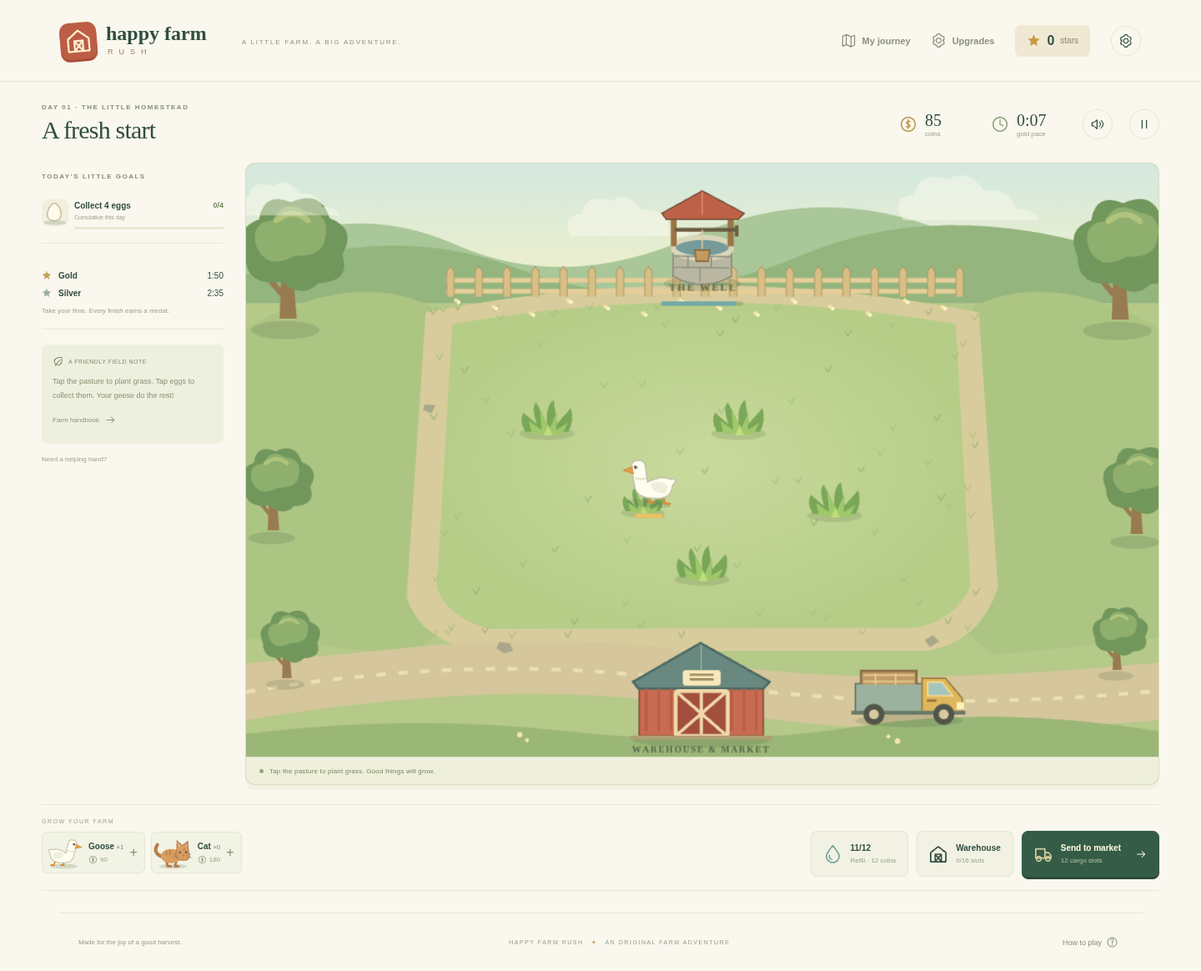
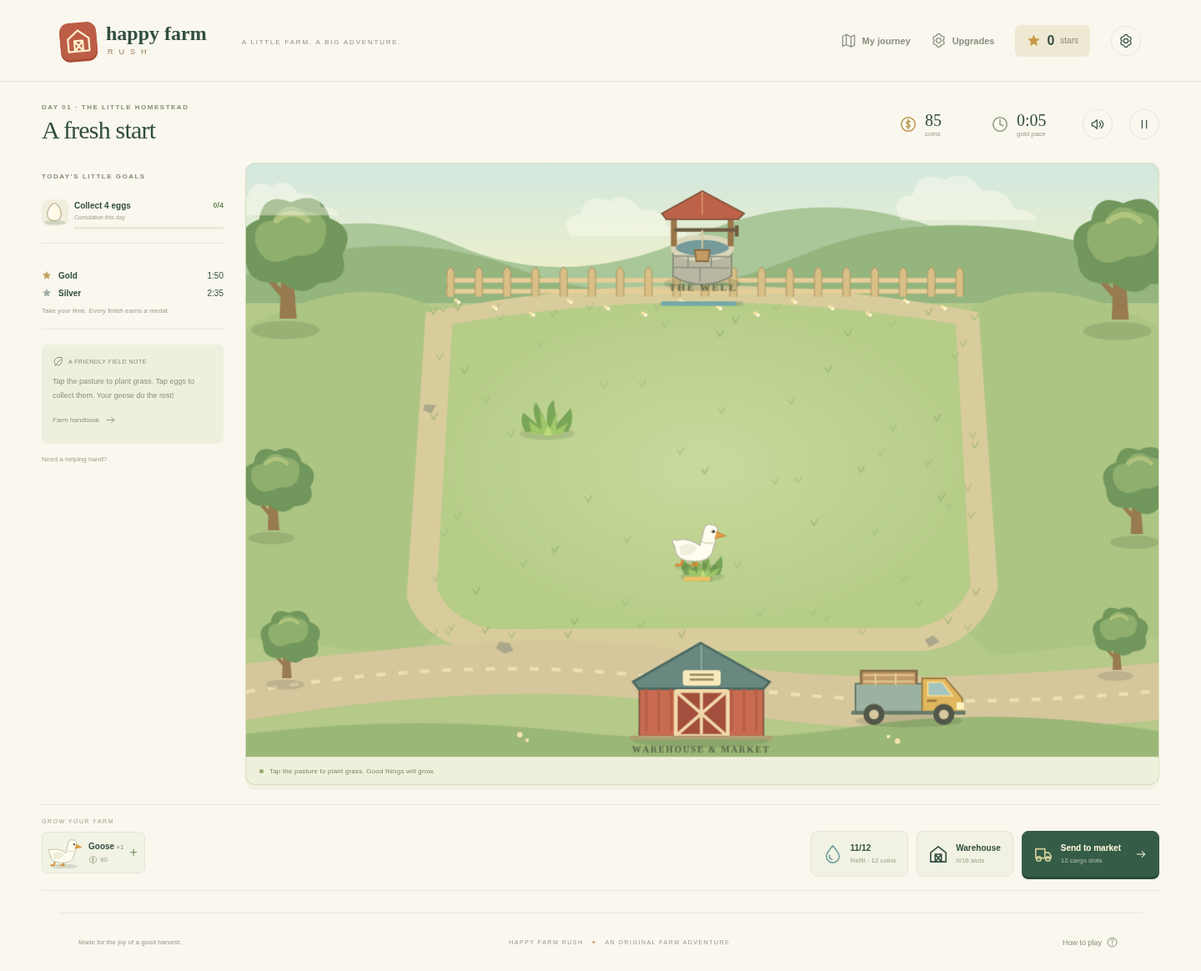
Verify campaign and mobile production flows; polish farm animations and balance

diff --git a/src/scenes/FarmScene.ts b/src/scenes/FarmScene.ts
@@ -7,12 +7,12 @@ import {BUILDINGS} from '../game/config/buildings';
 import type {GameEvent} from '../game/config/types';
 export interface FarmBridge {simulation:()=>GameSimulation|null;paused:()=>boolean;tick:()=>void;events:(events:GameEvent[])=>void;market:()=>void;well:()=>void;action:()=>void;reduced:()=>boolean;effects:()=>boolean}
 export class FarmScene extends Phaser.Scene {
- private bridge:FarmBridge;private clock=new GameClock();private entities=new Map<string,Phaser.GameObjects.Image>();private labels=new Map<string,Phaser.GameObjects.Text>();private bars!:Phaser.GameObjects.Graphics;private truck!:Phaser.GameObjects.Image;private clouds:Phaser.GameObjects.Image[]=[];private model:GameSimulation|null=null;private ready=false;
+ private bridge:FarmBridge;private clock=new GameClock();private entities=new Map<string,Phaser.GameObjects.Image>();private labels=new Map<string,Phaser.GameObjects.Text>();private bars!:Phaser.GameObjects.Graphics;private truck!:Phaser.GameObjects.Image;private well!:Phaser.GameObjects.Image;private clouds:Phaser.GameObjects.Image[]=[];private model:GameSimulation|null=null;private ready=false;
  constructor(bridge:FarmBridge){super('Farm');this.bridge=bridge;}
  create():void {
   this.add.image(500,325,'farm').setDepth(-1000);
   for(let i=0;i<3;i++)this.clouds.push(this.add.image(130+i*370,42+i%2*20,'cloud').setScale(.7+i*.13).setDepth(-900).setAlpha(.65));
-  this.add.image(500,85,'well').setScale(.82).setDepth(83).setInteractive({useHandCursor:true}).on('pointerdown',()=>{this.bridge.action();this.bridge.well();});
+  this.well=this.add.image(500,85,'well').setScale(.82).setDepth(83).setInteractive({useHandCursor:true}).on('pointerdown',()=>{this.bridge.action();this.bridge.well();});
   this.add.image(499,582,'warehouse').setScale(.85).setDepth(582).setInteractive({useHandCursor:true}).on('pointerdown',()=>{this.bridge.action();this.bridge.market();});
   this.truck=this.add.image(726,583,'truck').setDepth(585).setScale(.88).setInteractive({useHandCursor:true}).on('pointerdown',()=>{this.bridge.action();this.bridge.market();});
   this.add.text(500,136,'THE WELL',{fontFamily:'Georgia',fontSize:'11px',fontStyle:'bold',color:'#586447',letterSpacing:2}).setOrigin(.5).setDepth(100);
@@ -29,6 +29,7 @@ export class FarmScene extends Phaser.Scene {
  }
  feedback(e:GameEvent):void {
   if(!this.ready||e.x===undefined||e.y===undefined||!this.bridge.effects())return;
+  if(e.kind==='plant'&&!this.bridge.reduced()){for(let i=0;i<4;i++){const dust=this.add.circle(e.x+(i-1.5)*6,e.y+6,2+i%2,0xd8c28a,.75).setDepth(e.y+2);this.tweens.add({targets:dust,x:dust.x+(i-1.5)*10,y:e.y-8-i*3,alpha:0,scale:.3,duration:650,onComplete:()=>dust.destroy()});}}
   if(e.kind==='collect'&&e.asset&&!this.bridge.reduced()){
    const p=this.add.image(e.x,e.y,`product-${e.asset}`).setDepth(3000);this.tweens.add({targets:p,x:500,y:565,scale:.3,alpha:0,duration:520,ease:'Cubic.In',onComplete:()=>p.destroy()});
   }
@@ -42,20 +43,21 @@ export class FarmScene extends Phaser.Scene {
   if(sim.events.length)this.bridge.events(sim.events.splice(0));this.bridge.tick();
   const s=sim.s,t=s.time,motion=!this.bridge.reduced();
   if(!this.bridge.paused()&&motion)for(let i=0;i<this.clouds.length;i++)this.clouds[i].x=(130+i*370+t*(1+i*.4))%1180-90;
+  this.well.setAngle(motion&&s.refill>0?Math.sin(t*9)*2:0);
   this.bars.clear();const alive=new Set<string>();const visibleLabels=new Set<string>();
   const bar=(x:number,y:number,w:number,p:number,color:number)=>{this.bars.fillStyle(0x5c6c4d,.25).fillRoundedRect(x-w/2,y,w,5,2);this.bars.fillStyle(color).fillRoundedRect(x-w/2,y,w*Math.max(0,Math.min(1,p)),5,2);};
   for(const g of s.grass){const key=`g${g.id}`;alive.add(key);const sprite=this.image(key,'grass',g.x,g.y);sprite.setScale(Math.min(1,g.age*4)*(.6+g.food/E.grassFood*.4)).setDepth(g.y-40).setAlpha(.9);}
   for(const a of s.animals){const key=`a${a.id}`;alive.add(key);const moving=['wandering','seeking','fleeing'].includes(a.state);const f=motion&&moving?Math.floor(t*(a.state==='fleeing'?10:6)+a.id)%4:0;const sprite=this.image(key,`${a.species}-${f}`,a.x,a.y-16);const eating=a.state==='eating';sprite.setScale(a.species==='cow'?.85:a.species==='goose'?.69:.72).setFlipX(a.target.x<a.x).setDepth(a.y).setRotation(motion&&eating?Math.sin(t*8)*.1:0).setTint(a.hunger>E.hungerWarning?0xffe0b7:0xffffff);
    if(a.hunger>E.hungerWarning){const k=`h${a.id}`;visibleLabels.add(k);this.label(k,'! HUNGRY',a.x,a.y-62,'#a94b36',9);}if(a.species==='dog'&&a.bark>7.5){const k=`d${a.id}`;visibleLabels.add(k);this.label(k,'WOOF!',a.x,a.y-63,'#567f7a',10);}if(ANIMALS[a.species].product)bar(a.x,a.y+19,32,1-a.cooldown/ANIMALS[a.species].interval,0xe9c165);
   }
-  for(const p of s.drops){const key=`p${p.id}`;alive.add(key);const scale=p.age<.4&&motion?.75+Math.sin(p.age/.4*Math.PI)*.3:1;const sprite=this.image(key,`product-${p.kind}`,p.x,p.y);sprite.setScale(scale).setDepth(p.y+30).setAlpha(p.age>E.expiration-E.expirationWarning?.5+Math.sin(t*7)*.3:1);if(!sprite.input)sprite.setInteractive({useHandCursor:true}).on('pointerdown',()=>{this.bridge.action();if(!this.bridge.paused())sim.collect(p.id);});}
+  for(const p of s.drops){const key=`p${p.id}`;alive.add(key);const scale=p.age<.4&&motion?.75+Math.sin(p.age/.4*Math.PI)*.3:1;const sprite=this.image(key,`product-${p.kind}`,p.x,p.y);sprite.setScale(scale).setDepth(p.y+30).setAlpha(p.age>E.expiration-E.expirationWarning?.5+Math.sin(t*7)*.3:1);if(!sprite.input)sprite.setInteractive({useHandCursor:true,hitArea:new Phaser.Geom.Circle(23,23,this.game.device.input.touch?62:25),hitAreaCallback:Phaser.Geom.Circle.Contains}).on('pointerdown',()=>{this.bridge.action();if(!this.bridge.paused())sim.collect(p.id);});}
   for(const b of s.bears){const key=`b${b.id}`;alive.add(key);const sprite=this.image(key,`bear-${motion&&!b.caged&&b.warning<=0?Math.floor(t*5)%4:0}`,b.x,b.y-16);sprite.setScale(.92).setDepth(b.y).setTint(b.warning>0?0xefbb86:0xffffff);if(!sprite.input)sprite.setInteractive({useHandCursor:true}).on('pointerdown',()=>{this.bridge.action();if(!this.bridge.paused())sim.capture(b.id);});
    const k=`bt${b.id}`;visibleLabels.add(k);this.label(k,b.caged?`COLLECT · ${Math.ceil(b.cageTime)}s`:b.warning>0?`! BEAR · ${Math.ceil(b.warning)}s`:b.stun>0?'TAP TO CAPTURE!':'! TAP THE BEAR',b.x,b.y-67,'#a84d3c',10);
    if(b.caged){const ck=`c${b.id}`;alive.add(ck);this.image(ck,'cage',b.x,b.y-20).setScale(.95).setDepth(b.y+1);}
   }
   for(const m of s.machines){const b=BUILDINGS[m.kind],key=`m${m.kind}`;alive.add(key);const sprite=this.image(key,`building-${m.kind}-${m.level}`,b.x,b.y-25);sprite.setDepth(b.y).setScale(.94).setAngle(motion&&m.remaining>0?Math.sin(t*7)*.7:0);if(!sprite.input)sprite.setInteractive({useHandCursor:true}).on('pointerdown',()=>{this.bridge.action();if(!this.bridge.paused())sim.process(m.kind);});
    const k=`ml${m.kind}`;visibleLabels.add(k);this.label(k,m.remaining>0?`${Math.ceil(m.remaining)}s · ${m.batch} crafting`:b.short,b.x,b.y+45,'#4b5f49',10);
-   if(m.remaining>0){bar(b.x,b.y+65,85,1-m.remaining/m.duration,0xdea84d);if(motion&&this.bridge.effects()){const smokeKey=`sm${m.kind}`;visibleLabels.add(smokeKey);this.label(smokeKey,'· ·',b.x+30+Math.sin(t)*5,b.y-95-(t*9%20),'#a7aaa0',15);}}
+   if(m.remaining>0){const gx=b.x-47,gy=b.y+4;this.bars.fillStyle(0x728c7c).beginPath();for(let n=0;n<32;n++){const angle=(motion?t*2:0)+n*Math.PI/16,r=n%4<2?11:8;const x=gx+Math.cos(angle)*r,y=gy+Math.sin(angle)*r;if(n===0)this.bars.moveTo(x,y);else this.bars.lineTo(x,y);}this.bars.closePath().fillPath();this.bars.fillStyle(0xe8dab1).fillCircle(gx,gy,3);bar(b.x,b.y+65,85,1-m.remaining/m.duration,0xdea84d);if(motion&&this.bridge.effects()){const smokeKey=`sm${m.kind}`;visibleLabels.add(smokeKey);this.label(smokeKey,'· ·',b.x+30+Math.sin(t)*5,b.y-95-(t*9%20),'#a7aaa0',15);}}
   }
   for(const [key,obj] of this.entities)if(!alive.has(key)){obj.destroy();this.entities.delete(key);}
   for(const [key,label] of this.labels)if(!visibleLabels.has(key))label.setVisible(false);

diff --git a/src/ui/App.ts b/src/ui/App.ts
@@ -16,7 +16,7 @@ import {AudioSystem} from './Audio';
 export const formatTime=(t:number)=>`${Math.floor(t/60)}:${Math.floor(t%60).toString().padStart(2,'0')}`;
 const image=(art:string,cls='',alt='')=>`<img class="${cls}" src="${dataUri(art)}" alt="${alt}">`;
 const medals=['','Bronze','Silver','Gold'];
-const titleFor=(o:Objective)=>{const n=o.key==='coins'?'coins':o.key in PRODUCTS?PRODUCTS[o.key as Product].name.toLowerCase():ANIMALS[o.key as Species].name.toLowerCase();return `${({collect:'Collect',produce:'Make',deliver:'Deliver',stock:'Store',own:'Own',balance:'Have',revenue:'Earn'})[o.type]} ${o.amount} ${n}${o.amount>1&&o.key!=='coins'&&!['milk','wool','cloth','thread','powder','butter','cheese'].includes(o.key)?'s':''}`;};
+const titleFor=(o:Objective)=>{if(o.type==='own'){const species=o.key as Species;const plurals:Record<Species,string>={goose:'geese',sheep:'sheep',cow:'cows',cat:'cats',dog:'dogs'};return `Own ${o.amount} ${o.amount===1?ANIMALS[species].name.toLowerCase():plurals[species]}`;}const n=o.key==='coins'?'coins':o.key in PRODUCTS?PRODUCTS[o.key as Product].name.toLowerCase():ANIMALS[o.key as Species].name.toLowerCase();return `${({collect:'Collect',produce:'Make',deliver:'Deliver',stock:'Store',own:'Own',balance:'Have',revenue:'Earn'})[o.type]} ${o.amount} ${n}${o.amount>1&&o.key!=='coins'&&!['milk','wool','cloth','thread','powder','butter','cheese'].includes(o.key)?'s':''}`;};
 export class App {
  readonly saves=new SaveManager();sim:GameSimulation|null=null;private game:Phaser.Game|null=null;private scene:FarmScene|null=null;private view:'map'|'shop'|'farm'='map';private modal='';private autoPaused=false;private lastUi=0;private lastSave=0;private selection:Inventory=emptyInventory();private toastTimer=0;private audio=new AudioSystem(()=>this.saves.progress.settings);private notice='';
  constructor(private root:HTMLElement){
@@ -29,11 +29,11 @@ export class App {
   this.render();if(this.saves.error)this.toast(this.saves.error,true);
  }
  private isPaused=()=>this.view!=='farm'||!!this.modal||this.autoPaused||document.hidden;
- private header():string {const p=this.saves.progress;return `<header class="masthead"><button class="brand" data-action="map" aria-label="Happy Farm Rush home"><span class="brand-mark">${icon('barn')}</span><span>happy farm<span class="brand-rush">RUSH</span></span></button><div class="header-note">A LITTLE FARM. A BIG ADVENTURE.</div><nav><button class="nav-btn ${this.view==='map'?'active':''}" data-action="map">${icon('map')}<span>My journey</span></button><button class="nav-btn ${this.view==='shop'?'active':''}" data-action="shop">${icon('gear')}<span>Upgrades</span></button><span class="stars-badge">${starSvg}<b>${p.stars}</b><span>stars</span></span><button class="icon-btn" data-action="settings" aria-label="Settings">${icon('gear')}</button></nav></header>`;}
+ private header():string {const p=this.saves.progress;return `<header class="masthead"><button class="brand" data-action="map" aria-label="Happy Farm Rush home"><span class="brand-mark">${icon('barn')}</span><span>happy farm<span class="brand-rush">RUSH</span></span></button><div class="header-note">A LITTLE FARM. A BIG ADVENTURE.</div><nav><button class="nav-btn ${this.view==='map'?'active':''}" data-action="map" aria-label="My journey">${icon('map')}<span>My journey</span></button><button class="nav-btn ${this.view==='shop'?'active':''}" data-action="shop" aria-label="Upgrades">${icon('gear')}<span>Upgrades</span></button><span class="stars-badge">${starSvg}<b>${p.stars}</b><span>stars</span></span><button class="icon-btn" data-action="settings" aria-label="Settings">${icon('gear')}</button></nav></header>`;}
  private render():void {
   if(this.view!=='farm'){this.game?.destroy(true);this.game=null;this.scene=null;}
   this.root.innerHTML=`${this.header()}<main id="view">${this.view==='map'?this.mapView():this.view==='shop'?this.shopView():this.farmView()}</main><div id="overlay"></div><div id="toast" role="status" aria-live="polite"></div><footer class="footer"><span>Made for the joy of a good harvest.</span><span>HAPPY FARM RUSH <i>✦</i> AN ORIGINAL FARM ADVENTURE</span><button data-action="help">How to play ${icon('help')}</button></footer>`;
-  if(this.view==='farm')this.bootFarm();
+  window.scrollTo(0,0);if(this.view==='farm')this.bootFarm();
  }
  private mapView():string {
   const p=this.saves.progress,done=Object.keys(p.best).length;return `<section class="welcome"><div class="welcome-copy"><div class="eyebrow"><span></span> YOUR OWN LITTLE CORNER OF THE WORLD</div><h1>Good days.<br>Great <em>harvests.</em></h1><p>Plant a little. Care a lot. Turn a humble homestead<br class="desktop-break"> into the happiest farm in the valley.</p><div class="hero-actions"><button class="primary" data-action="${p.active?'continue':'level'}" data-key="${Math.min(p.unlocked,20)}">${p.active?'Continue your day':done?'Back to the farm':'Let’s get growing'} ${icon('arrow')}</button><button class="text-btn" data-action="help">New around here? How to play</button></div><div class="welcome-meta"><span>${icon('leaf')} 20 handcrafted days</span><span>${icon('clock')} Play at your own pace</span></div></div><div class="hero-art">${image(farmArt(),'hero-landscape')}${image(buildingArt('powder'),'hero-mill')}${image(warehouseArt,'hero-barn')}${image(animalArt('goose'),'hero-goose')}${image(animalArt('sheep'),'hero-sheep')}<div class="hero-bubble">A fresh start<br><b>is always growing.</b><span class="little-leaf">${icon('leaf')}</span></div><span class="art-caption">EST. TODAY · GROWN WITH LOVE</span></div></section><section class="journey"><div class="section-heading"><div><div class="eyebrow">ONE LITTLE DAY AT A TIME</div><h2>Your farm story</h2></div><div class="progress-summary"><b>${done}<span> / 20</span></b> days well spent<div class="thin-track"><span style="width:${done*5}%"></span></div></div></div>${[0,1,2].map(ch=>`<div class="chapter"><div class="chapter-title"><span>${['THE LITTLE HOMESTEAD','THREADS OF THE VALLEY','A BOUNTIFUL LIFE'][ch]}</span><i></i><small>CHAPTER 0${ch+1}</small></div><div class="level-grid">${LEVELS.filter(l=>ch===0?l.id<=6:ch===1?l.id>6&&l.id<=12:l.id>12).map(l=>{const locked=l.id>p.unlocked,best=p.best[l.id];return `<button class="level-card ${locked?'locked':''} ${l.id===p.unlocked?'current':''} ${best?'completed':''}" data-action="level" data-key="${l.id}" ${locked?'disabled':''}><span class="level-number">${locked?icon('lock'):String(l.id).padStart(2,'0')}</span><span class="level-name">${l.name}</span><span class="level-medal">${best?`<span class="mini-stars rank-${best.medal}">${starSvg.repeat(best.medal)}</span><small>${formatTime(best.time)}</small>`:locked?'<small>A little further along</small>':`<small>${l.id===1?'Your story starts here':'Ready when you are'}</small>${icon('arrow')}`}</span></button>`;}).join('')}</div></div>`).join('')}</section>`;

diff --git a/tests/browser/campaign.spec.ts b/tests/browser/campaign.spec.ts
@@ -1,7 +1,7 @@
 import {test,expect,type Page} from '@playwright/test';
 import type {FarmState} from '../../src/game/config/types';
 const state=(page:Page)=>page.evaluate(()=>JSON.parse(localStorage.getItem('happy-farm-rush-v1')!).active as FarmState|null);
-async function worldClick(page:Page,x:number,y:number){const box=await page.locator('canvas').boundingBox();if(!box)throw new Error('Farm canvas is unavailable');await page.mouse.click(box.x+x/1000*box.width,box.y+y/650*box.height);}
+async function worldClick(page:Page,x:number,y:number){await page.locator('canvas').scrollIntoViewIfNeeded();const box=await page.locator('canvas').boundingBox();if(!box)throw new Error('Farm canvas is unavailable');await page.mouse.click(box.x+x/1000*box.width,box.y+y/650*box.height);}
 async function startDay(page:Page){await page.getByRole('button',{name:'Let’s get growing',exact:false}).first().click();await expect(page.getByRole('dialog')).toBeVisible();await page.getByRole('button',{name:'Let’s get growing',exact:false}).click();await expect(page.locator('canvas[data-ready="true"]')).toBeVisible();}
 test('new campaign, real harvest, medal, upgrades, next day and save restore',async({page},testInfo)=>{
  const errors:string[]=[];page.on('pageerror',e=>errors.push(e.message));await page.clock.install();await page.goto('/?renderer=canvas');await page.screenshot({path:`screenshots/map-${testInfo.project.name}.png`,fullPage:true});
@@ -15,8 +15,9 @@ test('new campaign, real harvest, medal, upgrades, next day and save restore',as
  await page.screenshot({path:`screenshots/result-${testInfo.project.name}.png`,fullPage:true});
  await page.getByRole('button',{name:'Return to the journey',exact:true}).click();await page.getByRole('button',{name:'Upgrades',exact:false}).click();await expect(page.getByText('Room to grow.',{exact:false})).toBeVisible();await page.screenshot({path:`screenshots/shop-${testInfo.project.name}.png`,fullPage:true});
  await page.getByRole('button',{name:'Level 1 2',exact:true}).first().click();
- await page.getByRole('button',{name:'Back to your journey',exact:false}).click();await page.locator('[data-action="level"][data-key="2"]').click();await page.getByRole('button',{name:'Let’s get growing',exact:false}).click();await expect(page.locator('canvas[data-ready="true"]')).toBeVisible();await page.clock.runFor(7000);await worldClick(page,520,440);await page.getByRole('button',{name:'Pause game',exact:true}).click();const saved=await state(page);expect(saved?.level).toBe(2);expect(saved?.time).toBeGreaterThan(5);
- await page.clock.runFor(60000);expect((await state(page))!.time).toBe(saved!.time);await page.reload();await page.getByRole('button',{name:'Continue your day',exact:false}).click();await page.getByRole('button',{name:'Resume your day',exact:false}).click();await expect(page.locator('canvas[data-ready="true"]')).toBeVisible();const restored=await state(page);expect(restored?.water).toBe(saved?.water);expect(restored?.time).toBe(saved?.time);
+ await page.getByRole('button',{name:'Back to your journey',exact:false}).click();await page.locator('.level-card[data-action="level"][data-key="2"]').click();await page.getByRole('button',{name:'Let’s get growing',exact:false}).click();await expect(page.locator('canvas[data-ready="true"]')).toBeVisible();await page.clock.runFor(7000);await worldClick(page,520,440);await page.getByRole('button',{name:'Pause game',exact:true}).click();const saved=await state(page);expect(saved?.level).toBe(2);expect(saved?.time).toBeGreaterThan(5);
+ await page.clock.fastForward(60000);expect((await state(page))!.time).toBe(saved!.time);await page.reload();await page.getByRole('button',{name:'Continue your day',exact:false}).click();await page.getByRole('button',{name:'Resume your day',exact:false}).click();await expect(page.locator('canvas[data-ready="true"]')).toBeVisible();const restored=await state(page);expect(restored?.water).toBe(saved?.water);expect(restored?.time).toBe(saved?.time);
  const campaign=await page.evaluate(()=>JSON.parse(localStorage.getItem('happy-farm-rush-v1')!));expect(campaign.best['1']).toBeTruthy();expect(campaign.upgrades.well).toBe(1);expect(campaign.stars+campaign.spent).toBe(campaign.totalEarned);expect(errors).toEqual([]);
+ await page.evaluate(()=>{Object.defineProperty(document,'hidden',{configurable:true,get:()=>true});document.dispatchEvent(new Event('visibilitychange'));});const hiddenTime=(await state(page))!.time;await page.clock.fastForward(60000);expect((await state(page))!.time).toBe(hiddenTime);await page.evaluate(()=>{Object.defineProperty(document,'hidden',{configurable:true,get:()=>false});document.dispatchEvent(new Event('visibilitychange'));});await expect(page.getByText('The farm can wait.',{exact:true})).toBeVisible();
  const overflow=await page.evaluate(()=>document.documentElement.scrollWidth>innerWidth+1);expect(overflow).toBe(false);
 });

diff --git a/tests/browser/production.spec.ts b/tests/browser/production.spec.ts
@@ -1,0 +1,23 @@
+import {test,expect,type Page} from '@playwright/test';
+import {GameSimulation} from '../../src/game/engine/GameSimulation';
+import {newProgress} from '../../src/game/persistence/SaveManager';
+import {LEVELS} from '../../src/game/config/levels';
+import type {FarmState} from '../../src/game/config/types';
+const state=(p:Page)=>p.evaluate(()=>JSON.parse(localStorage.getItem('happy-farm-rush-v1')!).active as FarmState);
+async function click(p:Page,x:number,y:number){await p.locator('canvas').scrollIntoViewIfNeeded();const b=await p.locator('canvas').boundingBox();if(!b)throw new Error('Missing canvas');await p.mouse.click(b.x+x/1000*b.width,b.y+y/650*b.height);}
+async function save(p:Page){await p.getByRole('button',{name:'Pause game',exact:true}).click();const s=await state(p);await p.getByRole('button',{name:'Resume day',exact:false}).click();return s;}
+test('three workshop chains, cage collection, selected cargo and exactly-once payment',async({page},info)=>{
+ const errors:string[]=[];page.on('pageerror',e=>errors.push(e.message));
+ // Arrange a valid interrupted final day; isolate production without skipping its timers or actions.
+ const fixture=newProgress();fixture.unlocked=20;const farm=new GameSimulation(LEVELS[19]);farm.s.animals=[];farm.s.inventory.egg=1;farm.s.inventory.wool=1;farm.s.inventory.milk=1;fixture.active=farm.s;
+ await page.addInitScript(value=>localStorage.setItem('happy-farm-rush-v1',value),JSON.stringify(fixture));await page.clock.install();await page.goto('/?renderer=canvas');await page.getByRole('button',{name:'Continue your day',exact:false}).click();await page.getByRole('button',{name:'Resume your day',exact:false}).click();await expect(page.locator('canvas[data-ready="true"]')).toBeVisible();
+ await click(page,132,190);await click(page,125,325);await click(page,135,455);await page.clock.runFor(24000);
+ let s=await save(page);expect(s.inventory.egg).toBe(0);expect(s.inventory.wool).toBe(0);expect(s.inventory.milk).toBe(0);expect(s.produced.powder).toBe(1);expect(s.produced.thread).toBe(1);expect(s.produced.butter).toBe(1);
+ for(const d of s.drops)await click(page,d.x,d.y);
+ await click(page,866,190);await click(page,875,325);await click(page,865,455);await page.clock.runFor(30000);
+ s=await save(page);expect(s.produced.cake).toBe(1);expect(s.produced.cloth).toBe(1);expect(s.produced.cheese).toBe(1);for(const d of s.drops)await click(page,d.x,d.y);
+ await page.clock.runFor(6000);s=await save(page);expect(s.bears.length).toBeGreaterThan(0);const bear=s.bears[0];for(let i=0;i<4;i++)await click(page,bear.x,bear.y-16);
+ s=await save(page);expect(s.inventory.bear).toBe(1);expect(s.collected.bear).toBe(1);expect(s.inventory.cake).toBe(1);expect(s.inventory.cloth).toBe(1);expect(s.inventory.cheese).toBe(1);
+ await page.screenshot({path:`screenshots/production-${info.project.name}.png`,fullPage:true});await page.getByRole('button',{name:'Warehouse',exact:false}).click();await page.getByRole('button',{name:'Load cake',exact:true}).click();await page.getByRole('button',{name:'Load cloth',exact:true}).click();await page.getByRole('button',{name:'Load cheese',exact:true}).click();await page.screenshot({path:`screenshots/market-${info.project.name}.png`,fullPage:true});const coins=s.coins;
+ await page.getByRole('button',{name:'Send delivery',exact:false}).click();s=await state(page);expect(s.inventory.cake).toBe(0);expect(s.coins).toBe(coins);expect(s.truck.remaining).toBeGreaterThan(0);await page.clock.runFor(16000);s=await save(page);expect(s.coins).toBe(coins+553);expect(s.revenue).toBe(553);expect(s.delivered.cheese).toBe(1);expect(s.truck.remaining).toBe(0);await page.clock.runFor(16000);s=await save(page);expect(s.coins).toBe(coins+553);expect(errors).toEqual([]);
+});

diff --git a/src/game/config/levels.ts b/src/game/config/levels.ts
@@ -23,9 +23,9 @@ const levels: Array<Partial<Level>&{name:string;objectives:Objective[]}> = [
  {name:'Every shelf counts',description:'A small barn calls for a clever plan.',tip:'Storage is tighter today. Ship partial loads and process raw goods to free space.',coins:230,animals:{goose:3,sheep:2,cow:2,cat:1},buildings:wool,capacity:14,objectives:[deliver('milk',5),produce('cloth',2),money(450)],gold:200,silver:285,bears:[80,160,230]},
  {name:'Golden goodness',description:'Fresh milk becomes the village’s favorite butter.',coins:220,animals:{goose:2,cow:1,cat:1},buildings:[...egg,'churn'],objectives:[produce('butter',3),deliver('butter',3)],gold:165,silver:245,bears:[75,150]},
  {name:'Say cheese',description:'Patience makes the sweetest rewards.',coins:260,animals:{goose:2,cow:3,dog:1},buildings:[...egg,'churn','cheese'],objectives:[produce('cheese',2),deliver('cheese',2)],gold:180,silver:260,bears:[80,160,235]},
- {name:'Three little workshops',description:'Eggs, wool, and milk. One beautiful rhythm.',coins:320,animals:{goose:3,sheep:3,cow:2,cat:1,dog:1},buildings:all,objectives:[produce('cake',5),produce('cloth',5),produce('cheese',5)],gold:230,silver:315,bears:[65,135,205,275]},
+ {name:'Three little workshops',description:'Eggs, wool, and milk. One beautiful rhythm.',coins:320,animals:{goose:3,sheep:3,cow:2,cat:1,dog:1},buildings:all,objectives:[produce('cake',6),produce('cloth',6),produce('cheese',6)],gold:230,silver:315,bears:[65,135,205,275]},
  {name:'The village order',description:'A special delivery for everyone you know.',coins:300,animals:{goose:3,sheep:3,cow:3,cat:1,dog:1},buildings:all,objectives:[deliver('cake',6),deliver('cloth',5),deliver('cheese',5)],gold:260,silver:350,bears:[60,120,185,250,315]},
  {name:'Perfect timing',description:'Make every drop and delivery count.',coins:250,animals:{goose:3,sheep:3,cow:3,cat:1,dog:1},buildings:all,capacity:18,objectives:[revenue(3600),produce('cheese',5),produce('cloth',5),{type:'stock',key:'cake',amount:3}],gold:285,silver:380,bears:[65,125,185,245,305]},
  {name:'Home sweet harvest',description:'Everything you have learned. Everything you have grown.',coins:360,animals:{goose:4,sheep:3,cow:3,cat:1,dog:1},buildings:all,objectives:[deliver('cake',8),deliver('cloth',7),deliver('cheese',7),revenue(5000),collect('bear',3)],gold:325,silver:430,bears:[55,110,165,220,275,330,385]}
 ];
-export const LEVELS:Level[]=levels.map((l,i)=>({id:i+1,description:'A new day on your little farm.',chapter:i<6?'01 · THE LITTLE HOMESTEAD':i<12?'02 · THREADS OF THE VALLEY':'03 · A BOUNTIFUL LIFE',tip:'Keep grass growing, collect your harvest, and keep the truck busy. Tap a workshop to process its input.',coins:150,animals:{goose:2},water:12,buildings:[],unlocked:i<6?['goose','cat']:i<12?['goose','sheep','cat','dog']:['goose','sheep','cow','cat','dog'],bears:[],gold:140,silver:210,bronze:99999,reward:3,inventory:{},activeUpgrades:{},...l}));
+export const LEVELS:Level[]=levels.map((l,i)=>({id:i+1,description:'A new day on your little farm.',chapter:i<6?'01 · THE LITTLE HOMESTEAD':i<12?'02 · THREADS OF THE VALLEY':'03 · A BOUNTIFUL LIFE',tip:'Keep grass growing, collect your harvest, and keep the truck busy. Tap a workshop to process its input.',coins:150,animals:{goose:2},water:12,buildings:[],unlocked:i<5?['goose']:i<6?['goose','cat']:i<11?['goose','sheep','cat']:i<12?['goose','sheep','cat','dog']:['goose','sheep','cow','cat','dog'],bears:[],gold:140,silver:210,bronze:99999,reward:3,inventory:{},activeUpgrades:{},...l}));

diff --git a/scripts/balance.ts b/scripts/balance.ts
@@ -1,6 +1,7 @@
 import {writeFileSync} from 'node:fs';
 import {GameSimulation} from '../src/game/engine/GameSimulation';
 import {LEVELS} from '../src/game/config/levels';
+import {updateBears} from '../src/game/engine/BearSystem';
 import {ANIMALS} from '../src/game/config/animals';
 import {BUILDINGS} from '../src/game/config/buildings';
 import {PRODUCTS} from '../src/game/config/products';
@@ -14,7 +15,7 @@ export function simulate(levelIndex:number,profile:Profile){
  const interval=profile==='beginner'?4:profile==='efficient'?.4:profile==='storage-shortage'?2:1.3;
  for(let step=0;step<18000&&!g.s.complete;step++){
   const s=g.s;if(s.time+1e-8>=nextAction){nextAction+=interval;
-   if(profile==='bear-loss'&&s.bears.length&&!removed){const a=s.animals.find(a=>ANIMALS[a.species].product);if(a){const b=s.bears.find(b=>!b.caged);if(b){b.x=a.x;b.y=a.y;b.warning=0;b.stun=0;b.attack=0;const dog=s.animals.find(v=>v.species==='dog');if(dog)dog.bark=10;g.step();removed=s.lost>0;}}}
+   if(profile==='bear-loss'&&s.bears.length&&!removed){const a=s.animals.find(a=>ANIMALS[a.species].product);if(a){const b=s.bears.find(b=>!b.caged);if(b){b.x=a.x;b.y=a.y;b.warning=0;b.stun=0;b.attack=0;const dog=s.animals.find(v=>v.species==='dog');if(dog)dog.bark=10;updateBears(s,.05,g.emit);removed=s.lost>0;}}}
    for(const b of [...s.bears]){if(!b.caged){for(let i=0;i<3;i++)g.capture(b.id);}if(b.caged)g.capture(b.id);}
    for(const p of [...s.drops].sort((a,b)=>PRODUCTS[b.kind].price-PRODUCTS[a.kind].price))if(!g.collect(p.id))refused++;
    // Work backward through each chain, retaining raw resources until downstream goals are met.

diff --git a/playwright.config.ts b/playwright.config.ts
@@ -1,2 +1,2 @@
 import {defineConfig} from '@playwright/test';
-export default defineConfig({testDir:'tests/browser',timeout:180000,fullyParallel:false,workers:1,reporter:'list',use:{baseURL:'http://127.0.0.1:5173',launchOptions:{executablePath:process.env.CHROMIUM_PATH||'/usr/bin/chromium',args:['--no-sandbox','--use-gl=angle','--use-angle=swiftshader','--enable-unsafe-swiftshader']},screenshot:'only-on-failure'},projects:[{name:'desktop',use:{viewport:{width:1440,height:1000}}},{name:'mobile-landscape',use:{viewport:{width:844,height:390},isMobile:true,hasTouch:true}},{name:'mobile-portrait',use:{viewport:{width:390,height:844},isMobile:true,hasTouch:true}}]});
+export default defineConfig({testDir:'tests/browser',timeout:180000,fullyParallel:false,workers:1,reporter:'list',use:{baseURL:process.env.PLAYWRIGHT_BASE_URL||'http://127.0.0.1:5173',launchOptions:{executablePath:process.env.CHROMIUM_PATH||'/usr/bin/chromium',args:['--no-sandbox','--disable-gpu']},screenshot:'only-on-failure'},projects:[{name:'desktop',use:{viewport:{width:1440,height:1000}}},{name:'mobile-landscape',use:{viewport:{width:844,height:390},isMobile:true,hasTouch:true}},{name:'mobile-portrait',use:{viewport:{width:390,height:844},isMobile:true,hasTouch:true}}]});

diff --git a/src/game/engine/GameSimulation.ts b/src/game/engine/GameSimulation.ts
@@ -13,7 +13,7 @@ export class GameSimulation {
   if(saved){this.s=structuredClone(saved);return;}
   this.s={level:level.id,seed:8137+level.id*93,nextId:1,time:0,coins:level.coins,water:level.water,refill:0,animals:[],grass:[],drops:[],bears:[],machines:level.buildings.map(kind=>({kind,level:1,remaining:0,duration:0,batch:0})),inventory:{...emptyInventory(),...level.inventory},collected:emptyInventory(),produced:emptyInventory(),delivered:emptyInventory(),revenue:0,truck:{remaining:0,duration:0,cargo:emptyInventory(),value:0},spawned:0,complete:false,lost:0,upgrades:{...upgrades,...level.activeUpgrades}};
   for(const [species,count] of Object.entries(level.animals))for(let i=0;i<(count??0);i++)this.addAnimal(species as Species);
-  for(let i=0;i<4;i++)this.s.grass.push({id:this.id(),x:330+i*105,y:280+(i%2)*90,food:E.grassFood,age:3});
+  for(let i=0;i<(level.id===1?1:4);i++)this.s.grass.push({id:this.id(),x:330+i*105,y:280+(i%2)*90,food:E.grassFood,age:3});
  }
  static restore(state:FarmState):GameSimulation{return new GameSimulation(LEVELS[state.level-1],state.upgrades,state);}
  id=():number=>this.s.nextId++;

diff --git a/src/game/engine/AnimalAI.ts b/src/game/engine/AnimalAI.ts
@@ -36,6 +36,7 @@ export function updateAnimals(c:AIContext,dt:number):void {
  s.grass=s.grass.filter(g=>g.food>0.01);
 }
 function wander(c:AIContext,a:Animal,dt:number):void {
- a.state='wandering';if(distance(a,a.target)<8){a.target={x:E.field.left+25+c.random()*(E.field.right-E.field.left-50),y:E.field.top+20+c.random()*(E.field.bottom-E.field.top-40)};a.state='idle';}
+ if(a.warning>0){a.warning=Math.max(0,a.warning-dt);a.state='idle';return;}
+ a.state='wandering';if(distance(a,a.target)<8){a.target={x:E.field.left+25+c.random()*(E.field.right-E.field.left-50),y:E.field.top+20+c.random()*(E.field.bottom-E.field.top-40)};a.state='idle';a.warning=.6+c.random()*1.2;return;}
  move(a,a.target,ANIMALS[a.species].speed*0.65,dt);
 }

diff --git a/tests/campaign.test.ts b/tests/campaign.test.ts
@@ -1,0 +1,7 @@
+import {describe,it,expect} from 'vitest';
+import {profiles,simulate} from '../scripts/balance';
+import {LEVELS} from '../src/game/config/levels';
+describe('campaign economic playthroughs, with no persistent upgrades',()=>{
+ for(const profile of profiles)for(const level of LEVELS)it(`${profile}: day ${level.id} is solvable`,()=>{const result=simulate(level.id-1,profile);expect(result.complete,result.goals).toBe(true);expect(result.time).toBeLessThan(900);});
+ it('adverse bear scenario actually exercises a lost animal',()=>{const result=simulate(19,'bear-loss');expect(result.lost).toBeGreaterThan(0);expect(result.complete).toBe(true);});
+});

diff --git a/TESTING.md b/TESTING.md
@@ -1,13 +1,39 @@
 # Verification
 
-Development verification is recorded here with its actual scope. Automated logic tests do not establish device performance or subjective game feel.
+Verified on 2026-11-08 in the development environment. Automated tests establish the behavior described below, not subjective polish or unmeasured physical-device performance.
 
-- `npm test`: 34 deterministic simulation/persistence tests passed during initial implementation.
-- `npm run build`: strict TypeScript validation and Vite production build passed.
-- Chromium smoke checks: farm renders, SVG textures load, timer advances, and no browser runtime errors were reported in both automatic WebGL and explicit Canvas runs.
-- `npm run balance`: all 100 level/profile simulations completed with no purchased persistent upgrades after balancing changes. Detailed metrics are in `balance-results.json`.
-- Playwright desktop and mobile campaign checks: in progress at the first playable release; final results will be added after they run.
+## Engine and campaign
 
-## Scope and remaining limitations
+`npm test`: **135 passed**, two test files.
 
-Headless browser coverage is not a substitute for testing on physical Android devices. Art uses original vector walk frames and state transforms rather than large hand-painted sprite sheets. Ambient audio is a synthesized tone, not a composed musical soundtrack. Star upgrades deliberately let an experienced replay become faster than the initial campaign target. Balancing policies have perfect awareness of stock and goals even when their reactions are delayed, so the 45–60 minute target needs human playtesting.
+- 34 tests cover deterministic action streams, grass consumption and hunger, production cooldowns, planting/refills, successful and blocked collection, cats, expiration, every workshop conversion and timer, local upgrades, truck capacity and invalid cargo, exactly-once delivery credit, bear warnings/attacks/capture/escape, dog stun, goal semantics, completion freeze, medal boundaries, persistent upgrades, rescue, fixed-step timing, pause/catch-up limits, full save restoration and validation, reward deduplication and upgrade purchases.
+- 101 tests run all twenty days under five deterministic player policies, with no permanent upgrades, and confirm the adverse bear scenario actually loses an animal and still finishes. The final campaign/profile matrix completed **100/100** scenarios within the 900-second per-day ceiling. Measured simulation campaigns span **45.15–47.62 minutes**. See `balance-results.json` and `BALANCE.md` for policy assumptions.
+
+`npm run build`: **passed** strict TypeScript checking and Vite's static production build. Phaser is pinned to **4.2.1**. Output is approximately 1.46 MB JavaScript (398 KB gzip), 30 KB CSS (7 KB gzip), and a small HTML entry point; SVG assets are embedded and require no runtime service.
+
+## Browser flows
+
+`PLAYWRIGHT_BASE_URL=http://127.0.0.1:5174 npm run test:e2e` against `npm run preview -- --port 5174`: **six passed**. A previous WebGL software-rendering attempt exceeded its time limit; final repeatable tests use Phaser's supported Canvas renderer with Chromium GPU rendering disabled. They use Playwright virtual time to execute the real fixed-step updates and actual canvas/HTML clicks, without directly completing objectives or injecting output products/revenue.
+
+| Viewport | Real first-day campaign flow | Production, bears and trade |
+|---|---|---|
+| Desktop, 1440 × 1000 | Passed | Passed |
+| Phone landscape, 844 × 390 | Passed | Passed |
+| Phone portrait, 390 × 844 | Passed | Passed |
+
+The campaign flow starts from empty local storage, plants grass, lets a goose feed and produce, manually collects four eggs, completes the day, receives its medal/stars, returns to the map, buys an upgrade, starts day 2, saves, pauses, advances virtual time without farming, reloads, resumes, checks exact restored water/time, verifies retained campaign upgrades/rewards, tests the hidden-tab handler and checks horizontal overflow. It asserts there are no page runtime errors.
+
+The production flow starts from a **valid interrupted final-day fixture**, with one egg, wool and milk and no animals, to isolate machinery. Through real canvas clicks and full configured timers it makes powder/thread/butter, picks them up, makes cake/cloth/cheese, cages and collects a scheduled bear, selects the three manufactured goods, dispatches an eight-slot delivery and checks that exactly 553 coins arrive once after the full trip. No direct engine mutation occurs after the fixture is loaded. This flow is intentionally not a claim that all twenty levels were manually played through the renderer; the campaign matrix covers their economics.
+
+Screenshots of the map, farm, completion, upgrade shop, final-day workshops and selected market cargo are in `screenshots/` for all three viewports. The SVG-loading error found during development was corrected before release. Responsive navigation has explicit accessible labels, and touch devices get larger product hit regions.
+
+## Deployment verification
+
+The GitHub Actions Pages workflow runs locked dependency installation, the complete unit/campaign suite, the strict production build, artifact upload and Pages deployment. A successful deployment was verified at `https://kifrip.github.io/happy-farm-rush/` with an HTTP 200 response. Consult the repository's latest Actions run for the exact released commit.
+
+## Remaining limitations
+
+- Physical Android hardware, Safari and Firefox were not tested; headless Chromium viewports cannot establish performance on those devices.
+- Campaign duration is a deterministic economic simulation estimate. Human playtesting is still needed to judge difficulty, discoverability and medal pacing. Policies know all stock and objective dependencies, even with delayed reactions.
+- Artwork uses original SVG walk frames and state transforms rather than large hand-painted animation sheets. Ambient audio is a quiet synthesized tone rather than a composed soundtrack. These are deliberate lightweight presentation choices.
+- Sixty maximum campaign stars buy selected upgrades, not the entire shop. Upgraded replays can finish faster than the initial 45–60-minute campaign target.

diff --git a/BALANCE.md b/BALANCE.md
@@ -71,6 +71,18 @@ Policies:
 
 These policies perform multiple decisions at a reaction point and know objective dependencies. They are economic solvability experiments, not claims of measured human play time. They do not exhaust all decisions or prove every medal is achievable with every upgrade selection.
 
-The initial campaign took only 27–34 minutes in these experiments. Producer intervals, workshop times, animal mixes and advanced orders were revised. Current no-upgrade runs are roughly 44–47 minutes across the policies, before menus and upgrade decisions. All 100 scenarios complete after the storage policy was corrected to free raw reserves when full. See the JSON for exact per-level times, losses, refused collections, farm-aid usage and goal progress.
+The initial campaign took only 27–34 minutes in these experiments. Producer intervals, workshop times, animal mixes and advanced orders were revised. Current no-upgrade runs are roughly 45–48 minutes across the policies, before menus and upgrade decisions. All 100 scenarios complete after the storage policy was corrected to free raw reserves when full. See the JSON for exact per-level times, losses, refused collections, farm-aid usage and goal progress.
 
 Days 1–6 target about 1–3 minutes, days 7–16 about 2–4 minutes, and days 17–20 about 3–6 minutes; individual learning days can be shorter. The twenty configurations have distinct starting flocks, workshops, goals and arrival schedules. More demanding gold optimization and human pacing still benefit from playtesting.
+
+## Final recorded campaign runs
+
+| Policy | Completed days | Total simulation time | Animals lost | Farm-aid uses |
+|---|---:|---:|---:|---:|
+| beginner | 20/20 | 47.62 min | 0 | 0 |
+| average | 20/20 | 45.80 min | 0 | 0 |
+| efficient | 20/20 | 45.15 min | 0 | 0 |
+| storage-shortage | 20/20 | 46.08 min | 0 | 0 |
+| bear-loss | 20/20 | 46.07 min | 17 | 0 |
+
+The bear-loss policy produced 17 genuine attack losses across the 17 days with scheduled bears and still completed every day. It deliberately places a warned bear at a producer for one attack before normal defense resumes; it does not inject free replacement animals or money. No farm aid was needed in any of these final policies.
